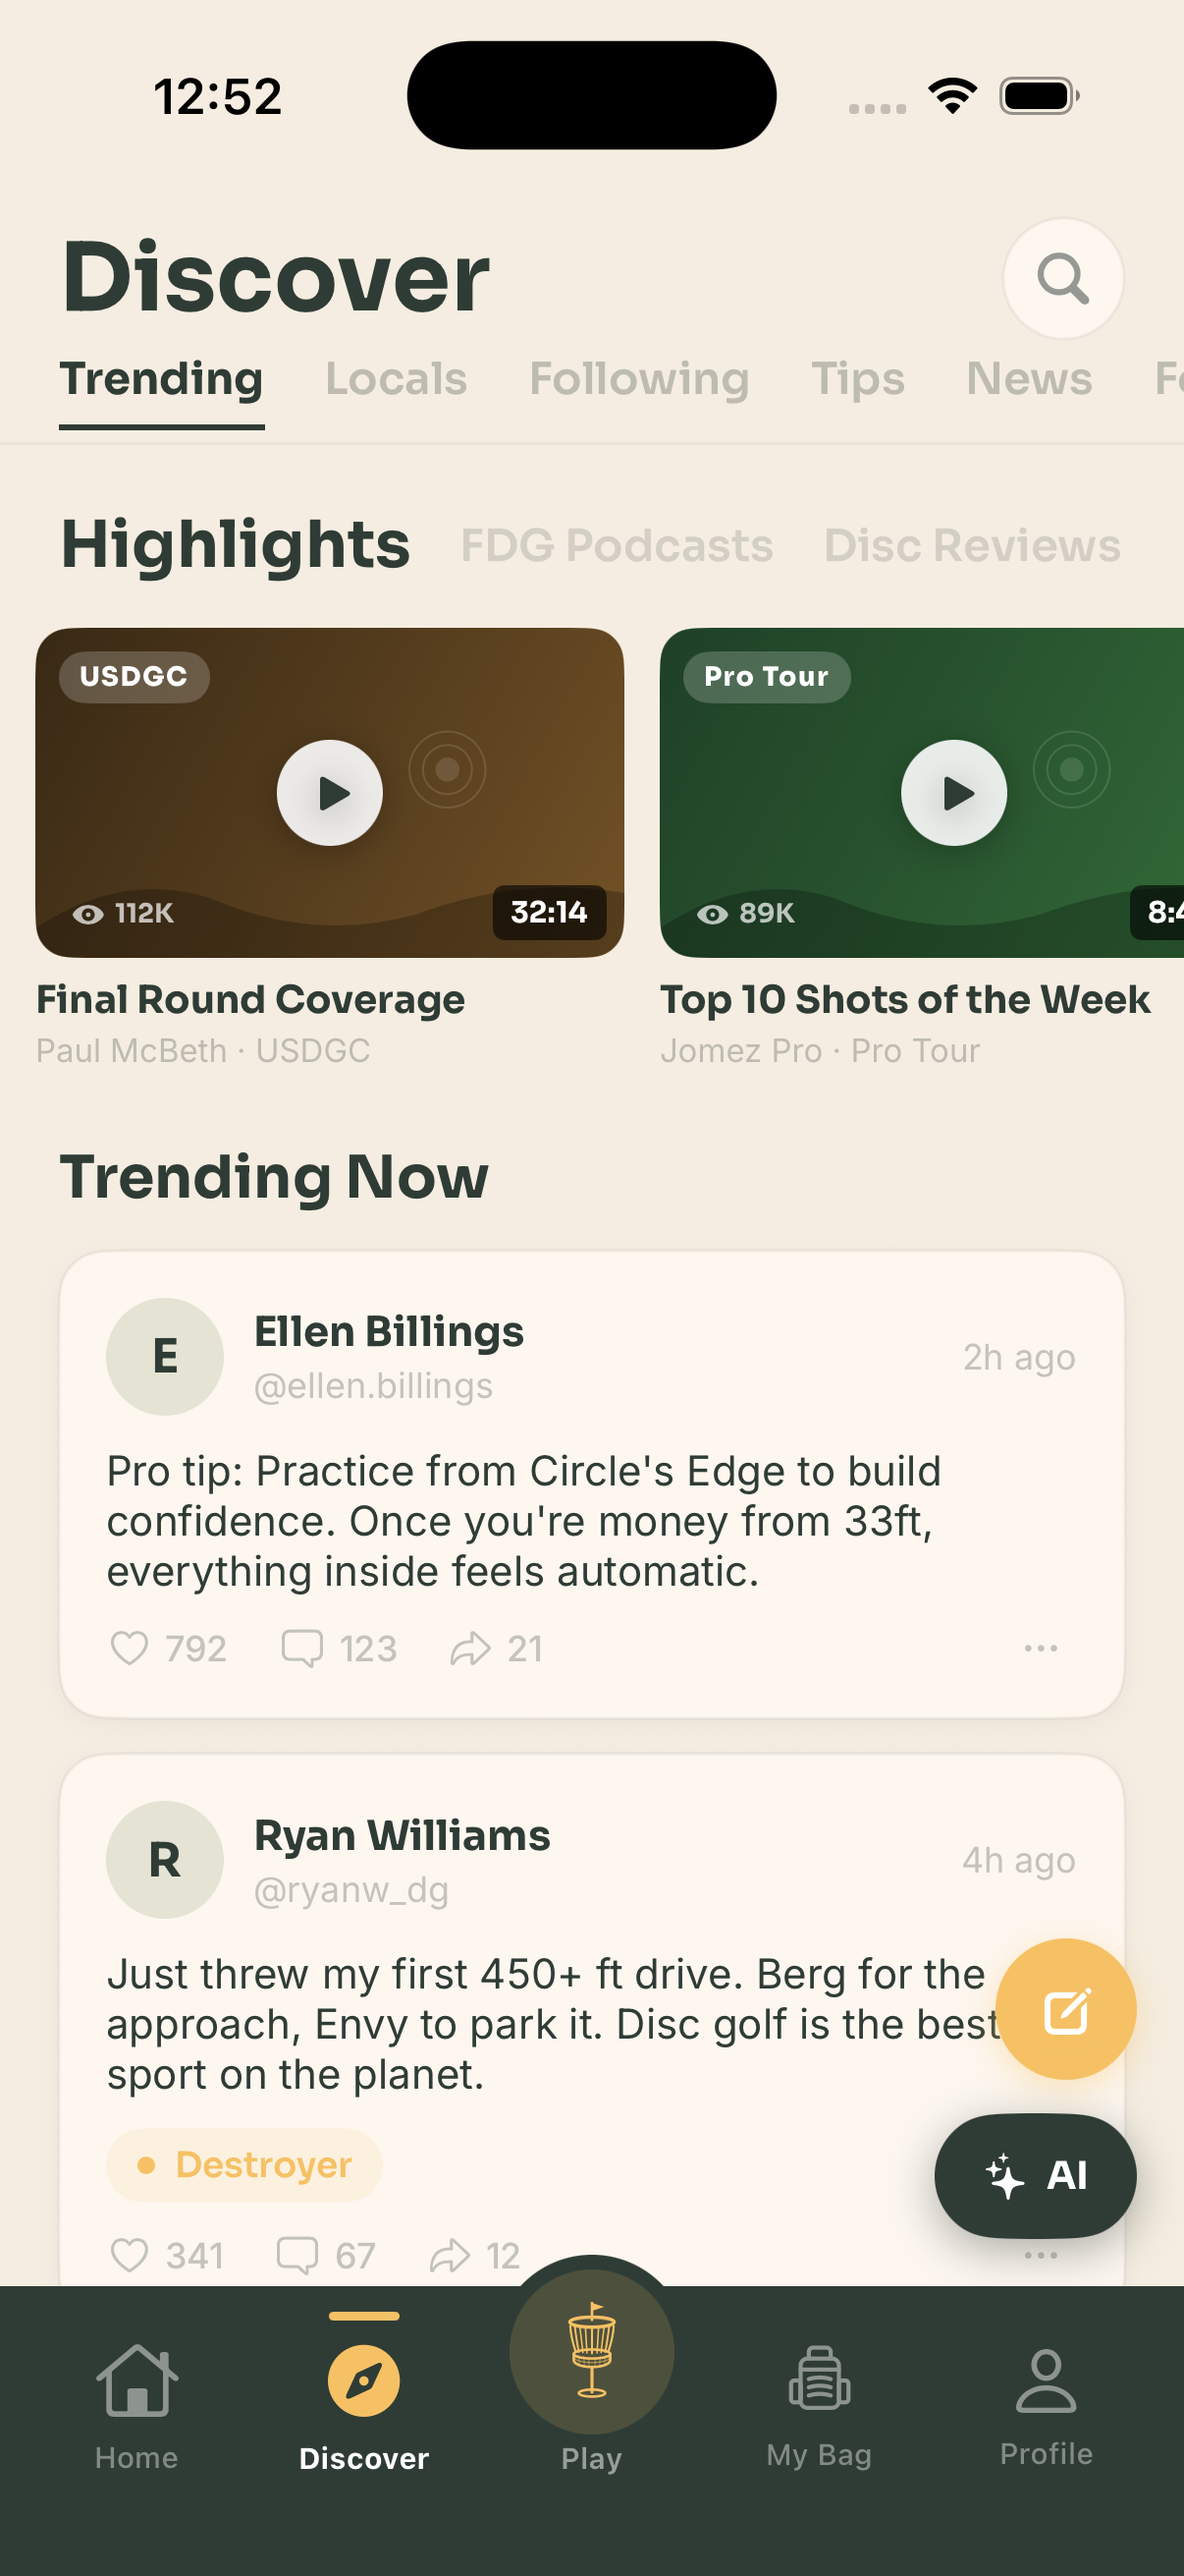
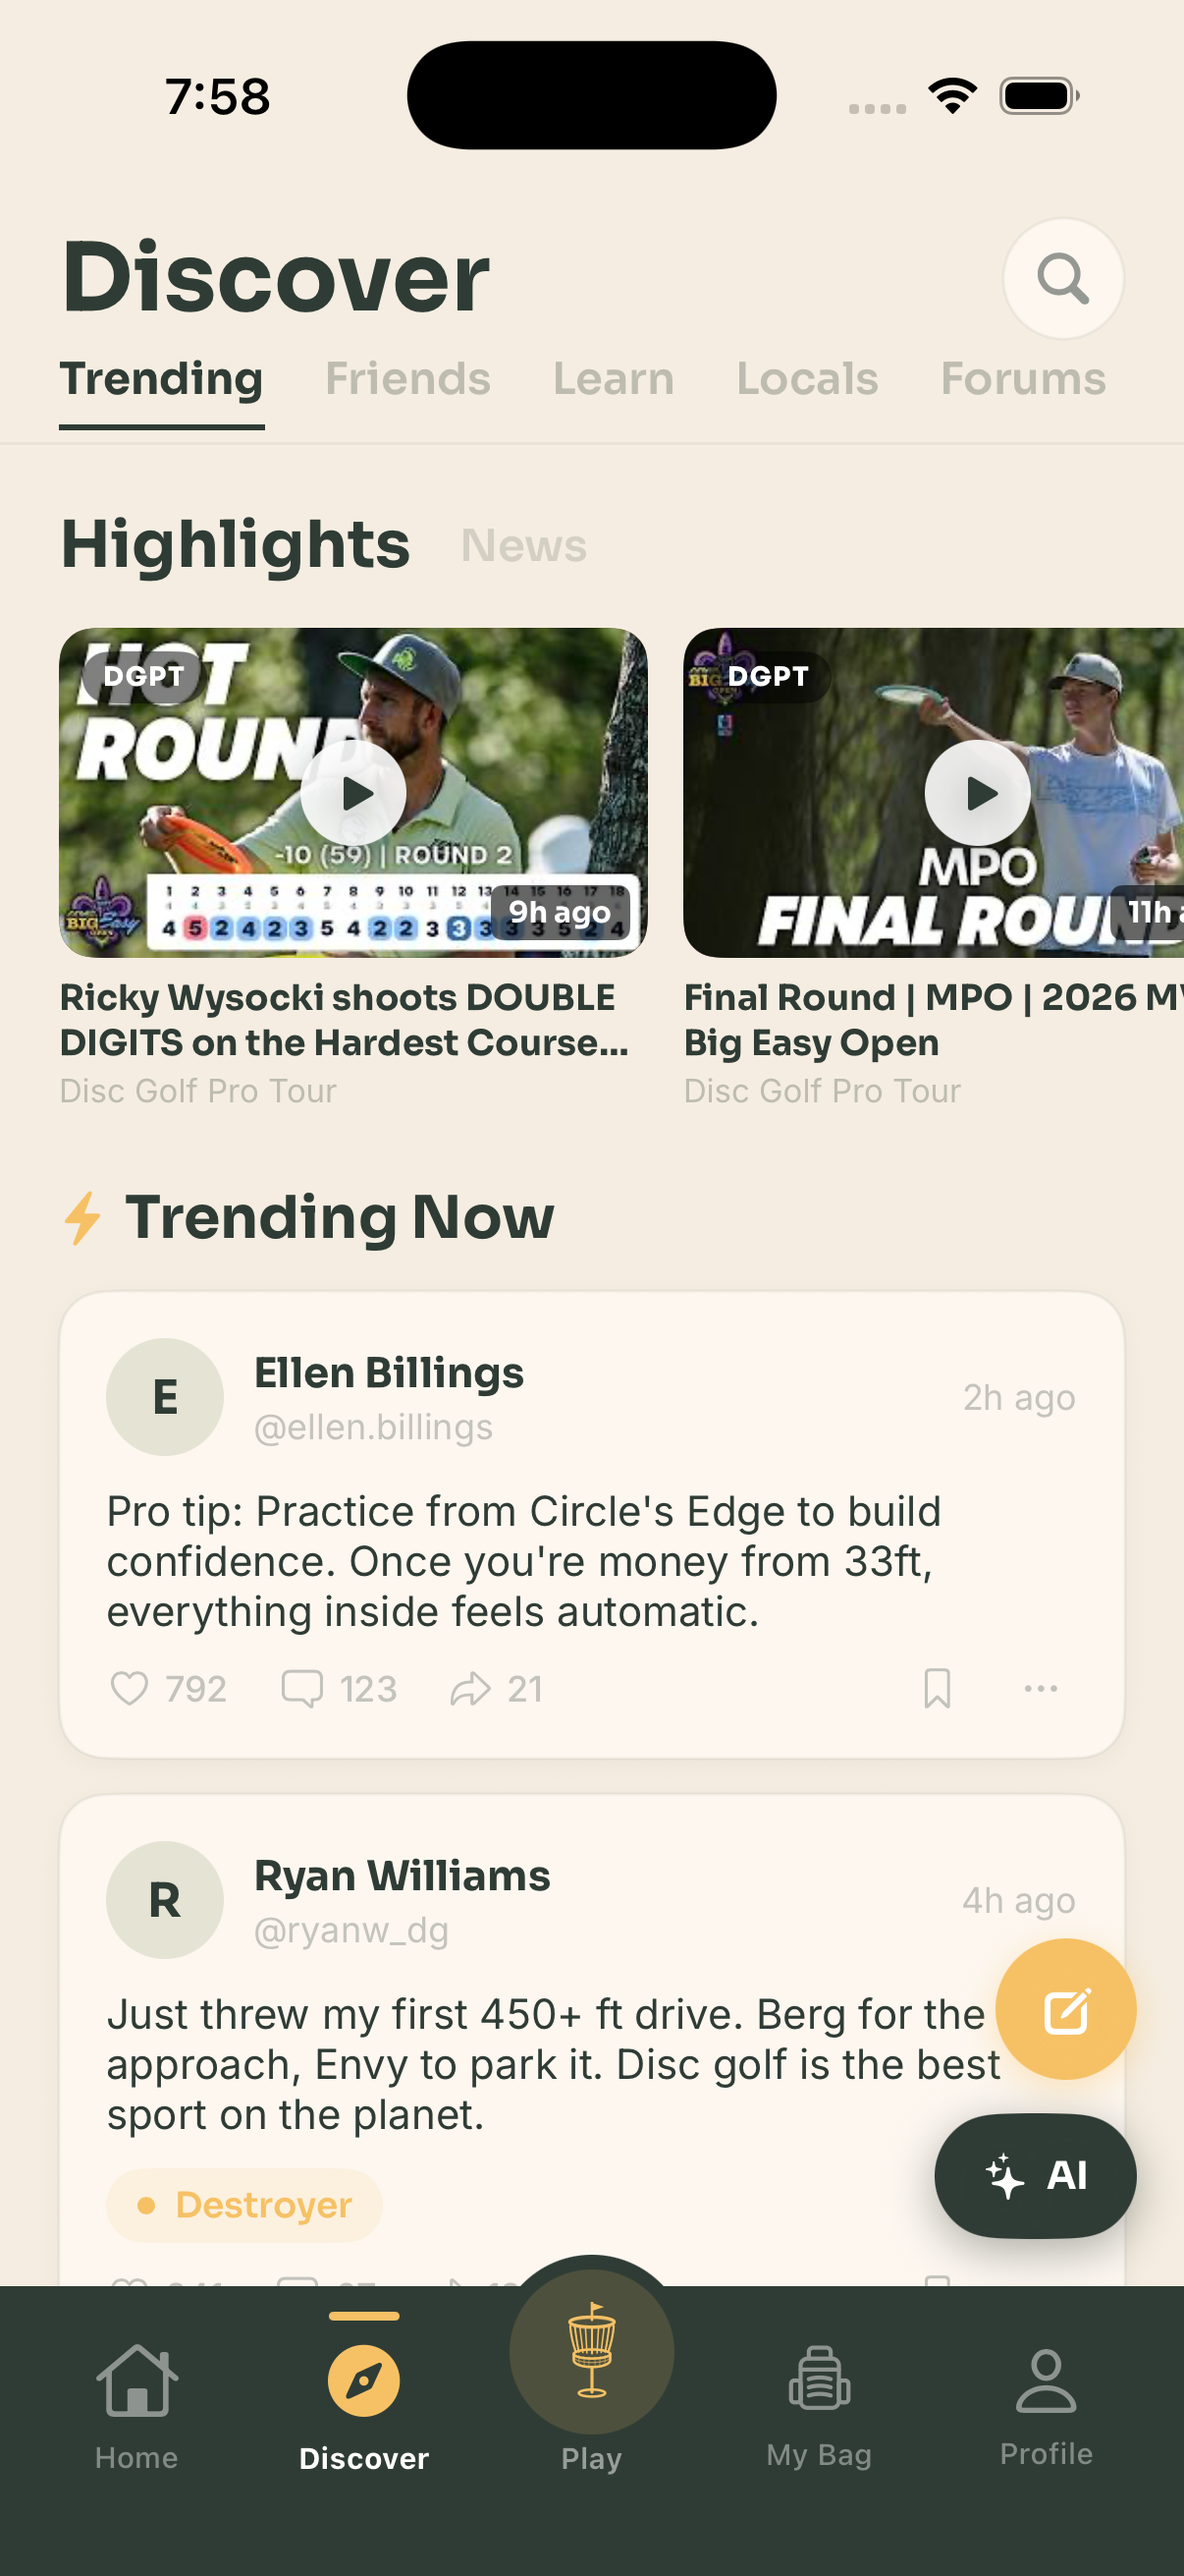
Update Community section, add Find Locals section, new Discover screenshot

diff --git a/index.html b/index.html
@@ -954,15 +954,15 @@
         <div class="feature-text">
             <div class="feature-label">Community</div>
             <h2>Join the <span class="gold">Community</span></h2>
-            <p>Tips. Highlights. Forums. Your people. Find local casual rounds, follow players, and dive into conversations with disc golfers at every level.</p>
+            <p>Create your own profile, connect with players, and stay plugged into the disc golf world. Share tips, watch highlights, and join conversations with disc golfers at every level.</p>
             <div class="feature-checks">
                 <div class="feature-check">
                     <div class="icon"><svg fill="none" stroke="currentColor" stroke-width="3" viewBox="0 0 24 24"><path d="M20 6L9 17l-5-5" stroke-linecap="round" stroke-linejoin="round"/></svg></div>
-                    <span>Trending highlights &amp; disc reviews</span>
+                    <span>Build your player profile &amp; connect with others</span>
                 </div>
                 <div class="feature-check">
                     <div class="icon"><svg fill="none" stroke="currentColor" stroke-width="3" viewBox="0 0 24 24"><path d="M20 6L9 17l-5-5" stroke-linecap="round" stroke-linejoin="round"/></svg></div>
-                    <span>Find local rounds &amp; meetups near you</span>
+                    <span>Trending highlights &amp; disc reviews</span>
                 </div>
                 <div class="feature-check">
                     <div class="icon"><svg fill="none" stroke="currentColor" stroke-width="3" viewBox="0 0 24 24"><path d="M20 6L9 17l-5-5" stroke-linecap="round" stroke-linejoin="round"/></svg></div>
@@ -974,6 +974,44 @@
             <div class="iphone-frame">
                 <div class="iphone-screen">
                     <img src="assets/screen-discover.png" alt="Discover feed">
+                </div>
+            </div>
+        </div>
+    </div>
+</section>
+
+<!-- ==================== FIND LOCALS ==================== -->
+<section class="feature-section" id="find-locals">
+    <div class="bg-gradient"></div>
+    <div class="topo-pattern"></div>
+    <div class="noise"></div>
+    <div class="gold-glow" style="width:600px;height:600px;top:-200px;left:-100px"></div>
+    <div class="ring-accent" style="width:400px;height:400px;bottom:-100px;right:-150px"></div>
+
+    <div class="feature-inner reveal">
+        <div class="feature-text">
+            <div class="feature-label">Find Locals</div>
+            <h2>Find <span class="gold">Your People</span><br>Nearby</h2>
+            <p>Disc golf is better with friends. Find local players, join casual rounds near you, and never throw alone again.</p>
+            <div class="feature-checks">
+                <div class="feature-check">
+                    <div class="icon"><svg fill="none" stroke="currentColor" stroke-width="3" viewBox="0 0 24 24"><path d="M20 6L9 17l-5-5" stroke-linecap="round" stroke-linejoin="round"/></svg></div>
+                    <span>Discover players &amp; groups in your area</span>
+                </div>
+                <div class="feature-check">
+                    <div class="icon"><svg fill="none" stroke="currentColor" stroke-width="3" viewBox="0 0 24 24"><path d="M20 6L9 17l-5-5" stroke-linecap="round" stroke-linejoin="round"/></svg></div>
+                    <span>Join casual rounds &amp; local meetups</span>
+                </div>
+                <div class="feature-check">
+                    <div class="icon"><svg fill="none" stroke="currentColor" stroke-width="3" viewBox="0 0 24 24"><path d="M20 6L9 17l-5-5" stroke-linecap="round" stroke-linejoin="round"/></svg></div>
+                    <span>Connect with players at your skill level</span>
+                </div>
+            </div>
+        </div>
+        <div class="feature-phone">
+            <div class="iphone-frame">
+                <div class="iphone-screen">
+                    <img src="assets/screen-locals.png" alt="Find local players">
                 </div>
             </div>
         </div>
